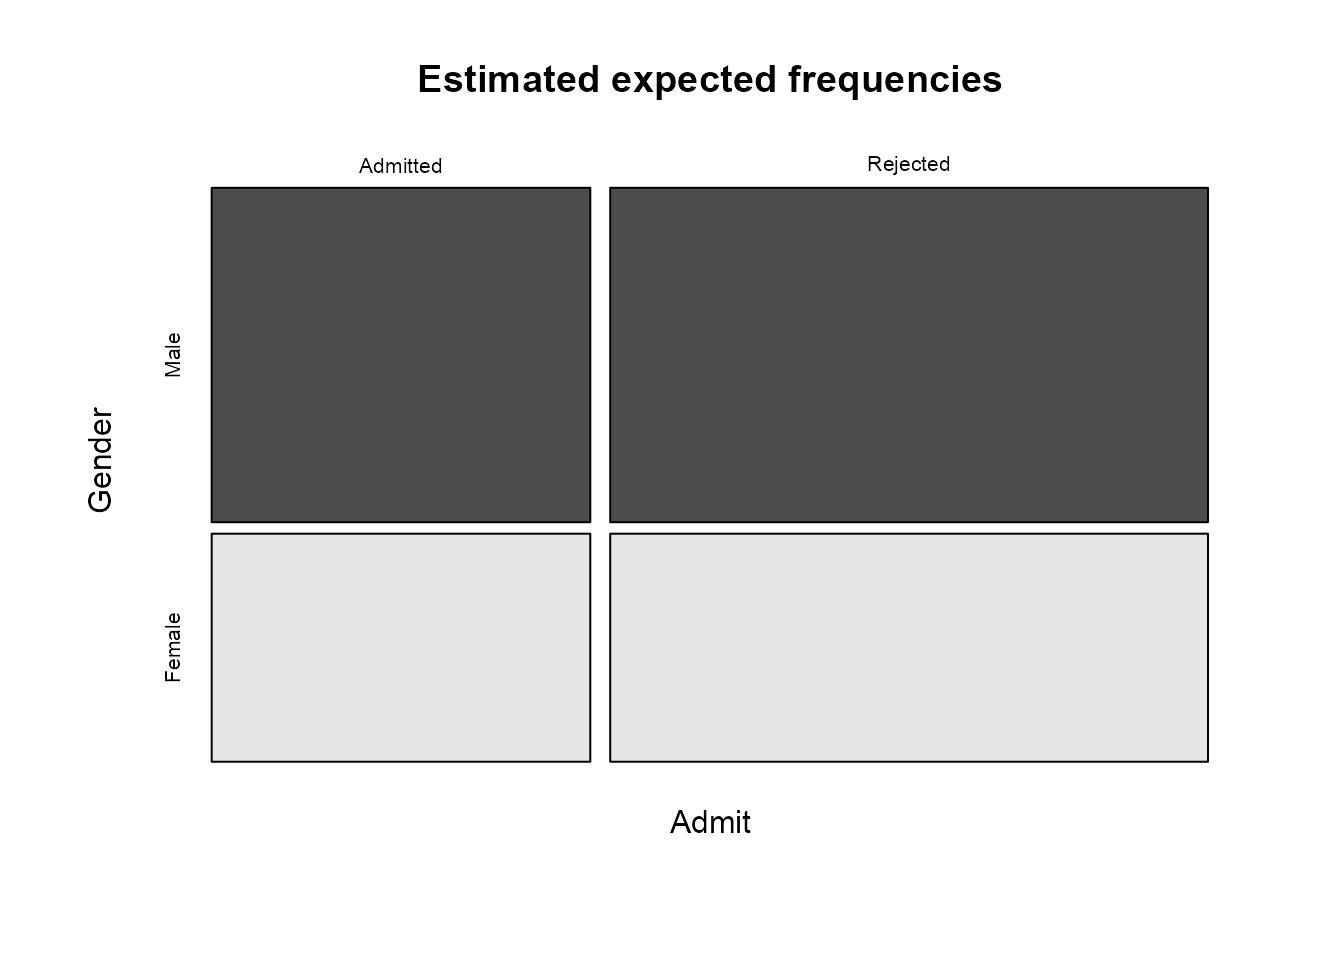
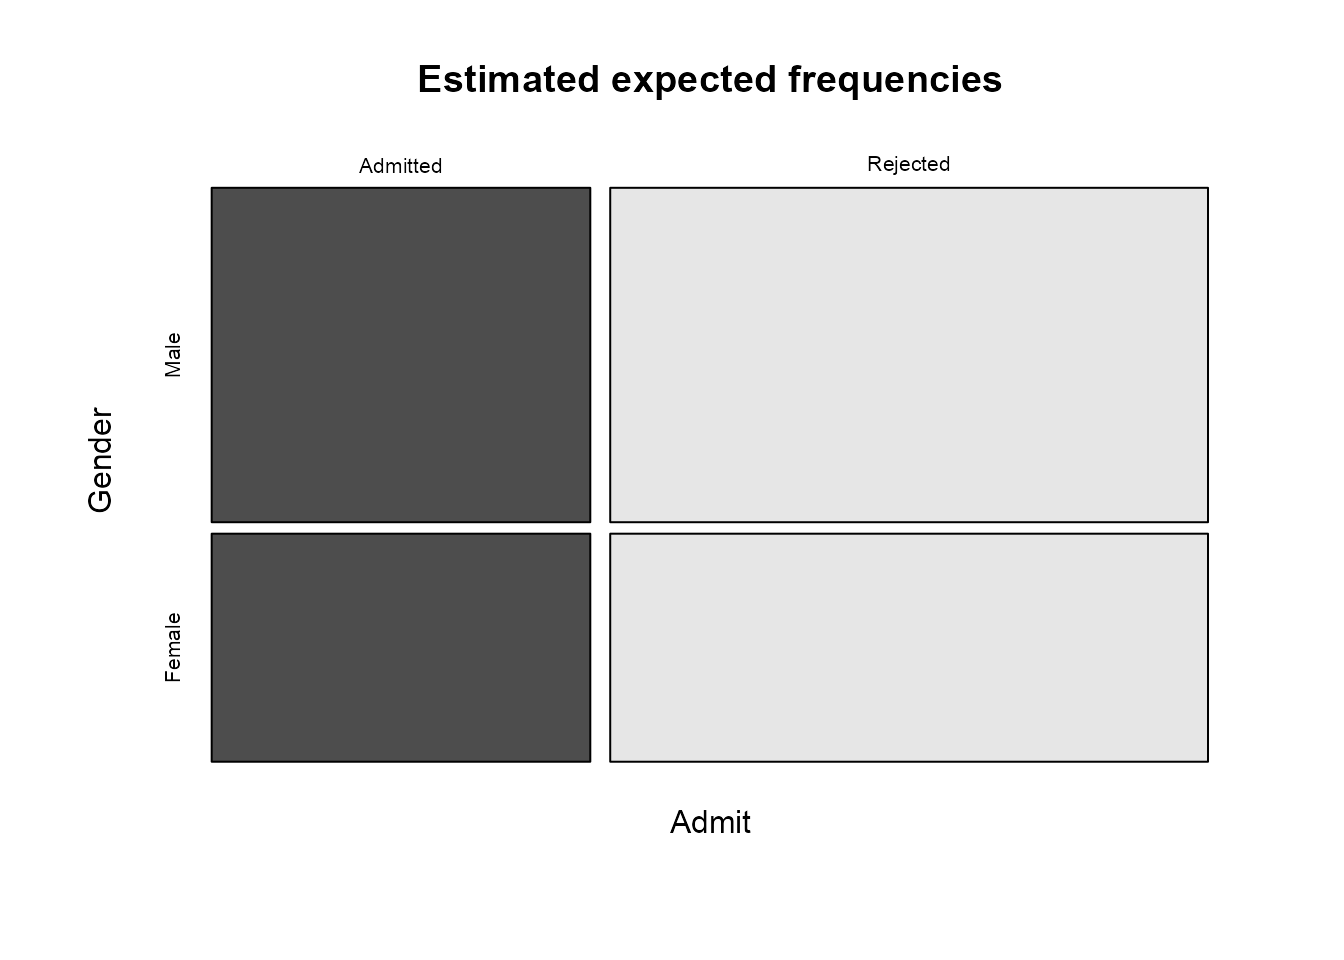
Correct colours in estimated expected frequencies plot in Ch8 vignette

Changed region(s): [[0.1562, 0.1875, 0.9062, 0.8125]]

diff --git a/docs/articles/stat0002-ch8-contingency-tables-vignette.html b/docs/articles/stat0002-ch8-contingency-tables-vignette.html
@@ -446,7 +446,8 @@ produce a mosaic plot of the estimated expected frequencies</p>
 <span id="cb10-14"><a href="#cb10-14" aria-hidden="true" tabindex="-1"></a><span class="sc">&gt;</span> <span class="co"># Trick R into using plot.table</span></span>
 <span id="cb10-15"><a href="#cb10-15" aria-hidden="true" tabindex="-1"></a><span class="er">&gt;</span> <span class="fu">class</span>(efreq) <span class="ot">&lt;-</span> <span class="st">"table"</span></span>
 <span id="cb10-16"><a href="#cb10-16" aria-hidden="true" tabindex="-1"></a><span class="sc">&gt;</span> <span class="co"># Plot estimated expected frequencies</span></span>
-<span id="cb10-17"><a href="#cb10-17" aria-hidden="true" tabindex="-1"></a><span class="er">&gt;</span> <span class="fu">plot</span>(<span class="fu">t</span>(efreq), <span class="at">main =</span> <span class="st">"Estimated expected frequencies"</span>, <span class="at">color =</span> <span class="cn">TRUE</span>)</span></code></pre></div>
+<span id="cb10-17"><a href="#cb10-17" aria-hidden="true" tabindex="-1"></a><span class="er">&gt;</span> <span class="fu">plot</span>(efreq, <span class="at">main =</span> <span class="st">"Estimated expected frequencies"</span>, <span class="at">color =</span> <span class="cn">TRUE</span>, </span>
+<span id="cb10-18"><a href="#cb10-18" aria-hidden="true" tabindex="-1"></a><span class="sc">+</span>      <span class="at">dir =</span> <span class="fu">c</span>(<span class="st">"h"</span>, <span class="st">"v"</span>))</span></code></pre></div>
 <p><img src="stat0002-ch8-contingency-tables-vignette_files/figure-html/unnamed-chunk-10-1.png" width="672" style="display: block; margin: auto;"></p>
 <p>As we expect, the relative sizes of the estimated expected
 frequencies for <code>Admitted</code> and <code>Rejected</code> are the
